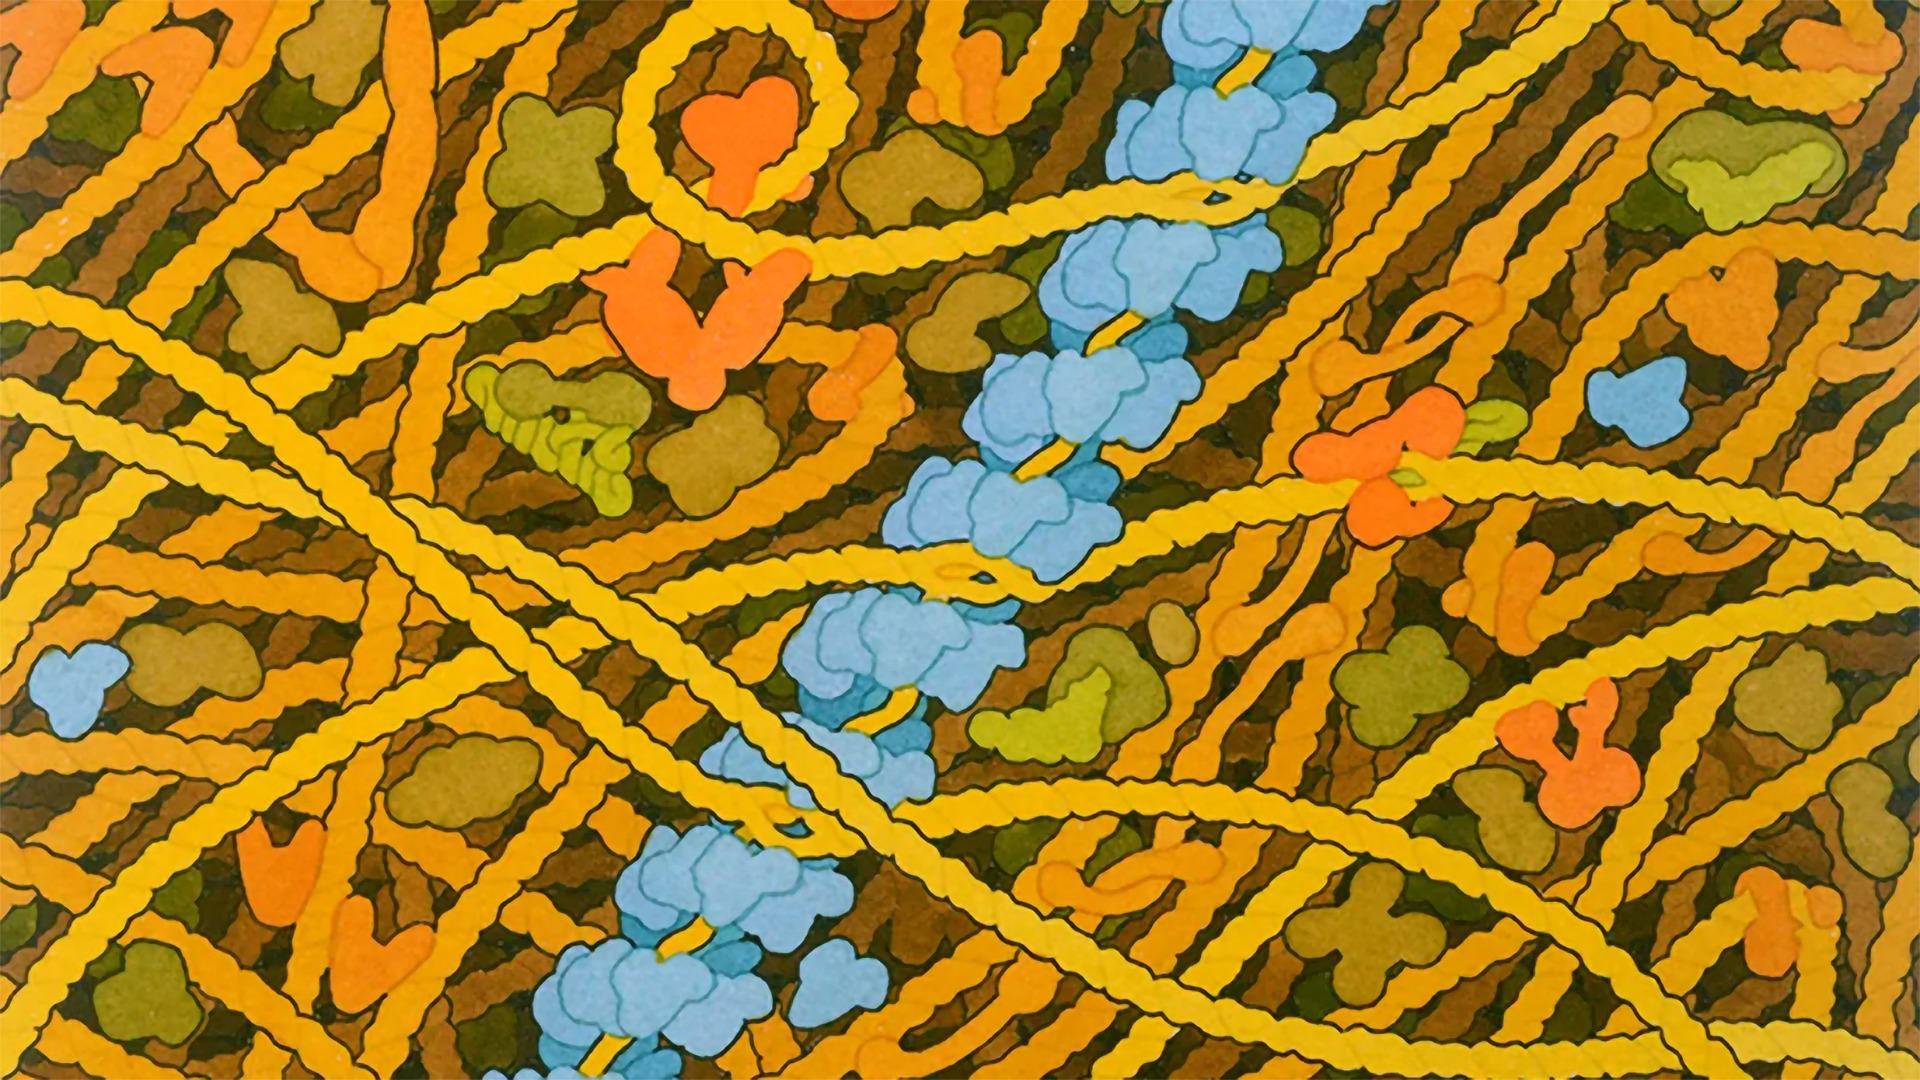
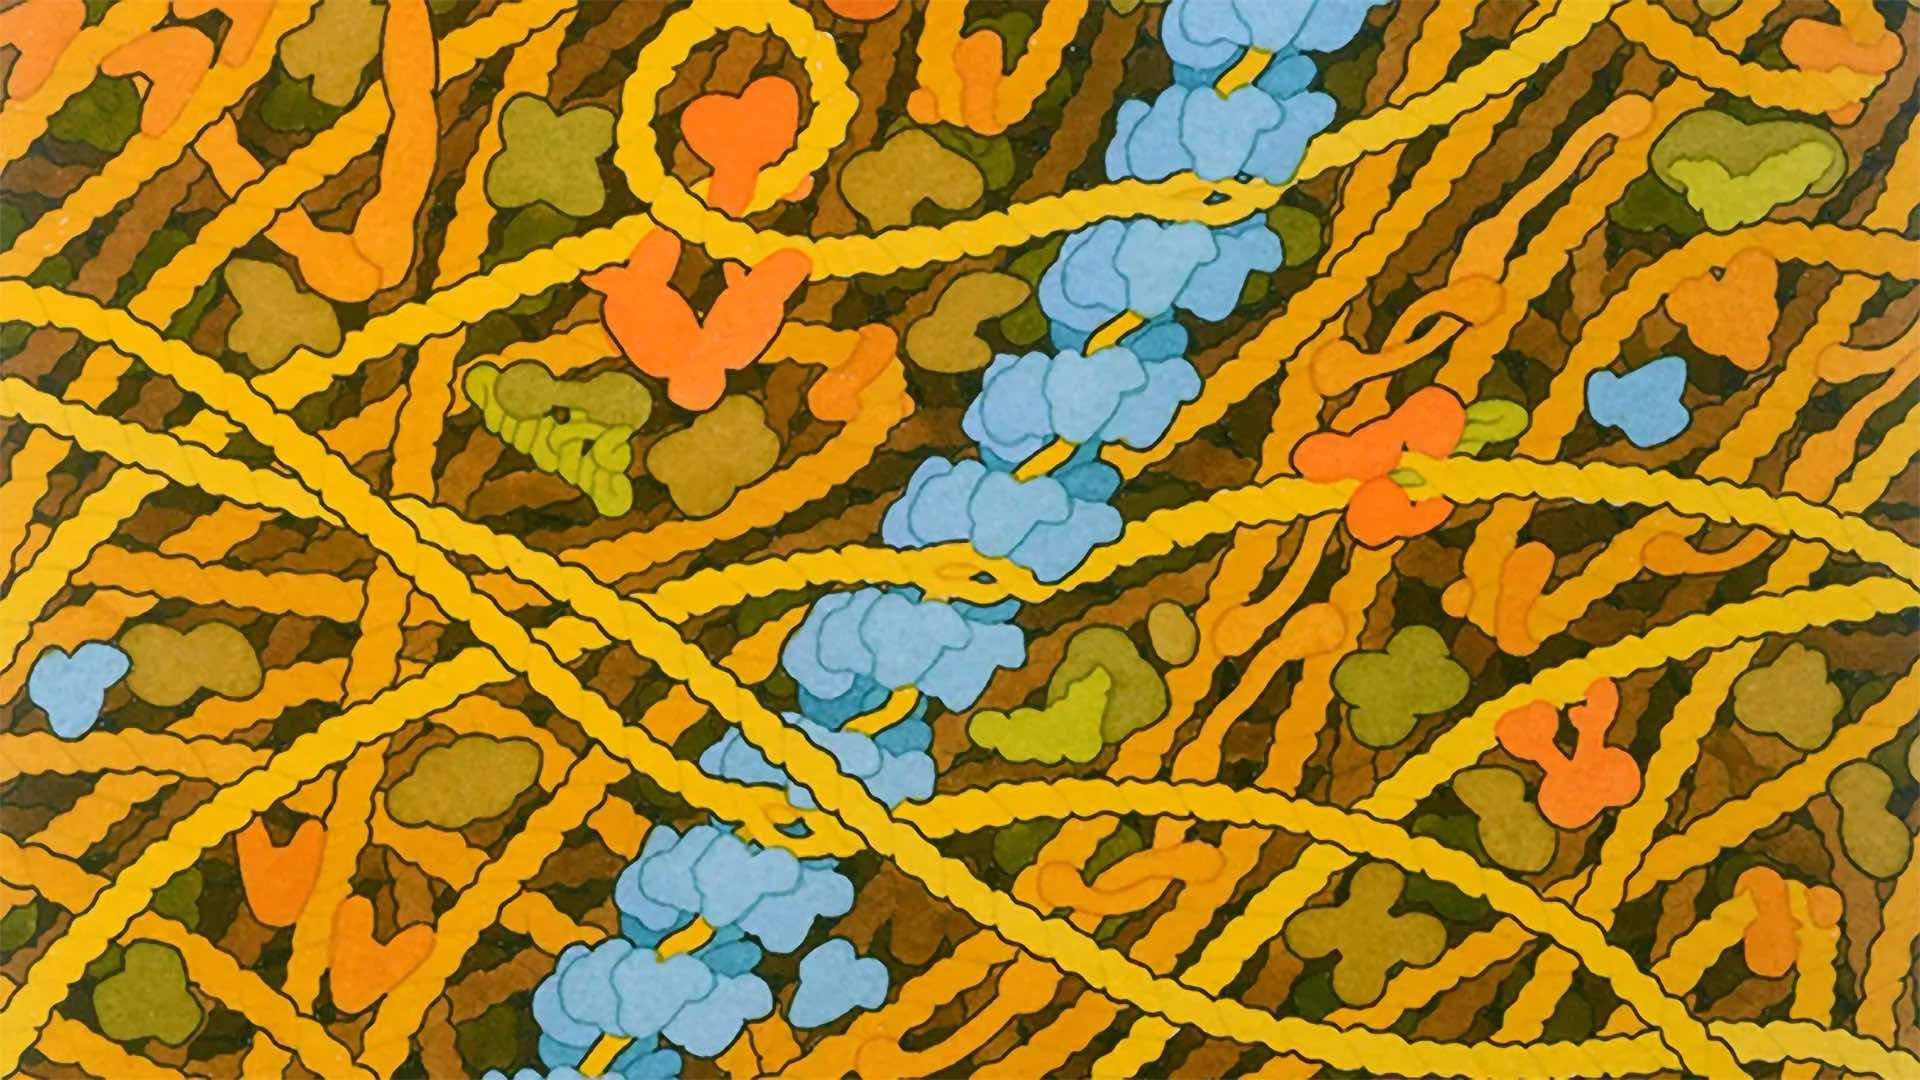
Compress images

diff --git a/index.html b/index.html
@@ -41,7 +41,7 @@
     <p>I built the <a href=https://gmd.copernicus.org/articles/14/107/2021/>largest expert-labeled dataset for extreme weather events</a> and the <a href=https://github.com/andregraubner/ClimateNet>fastest AI-driven extreme weather detector</a> together with a great, multi-disciplinary team at Lawrence Berkeley Lab.
   </div>
   <div class="image-container">
-    <img src="images/cnet.png" alt="Description">
+    <img src="images/cnet.jpg" alt="Description">
   </div>
 </div>
 
